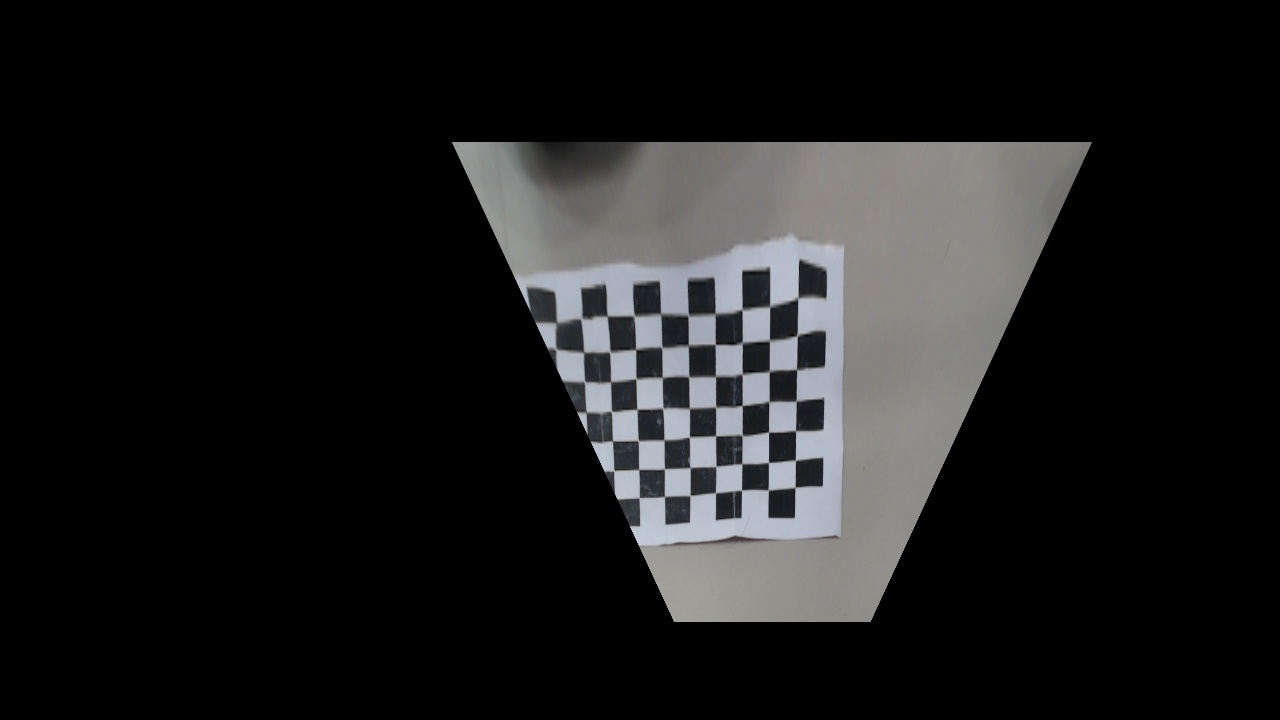
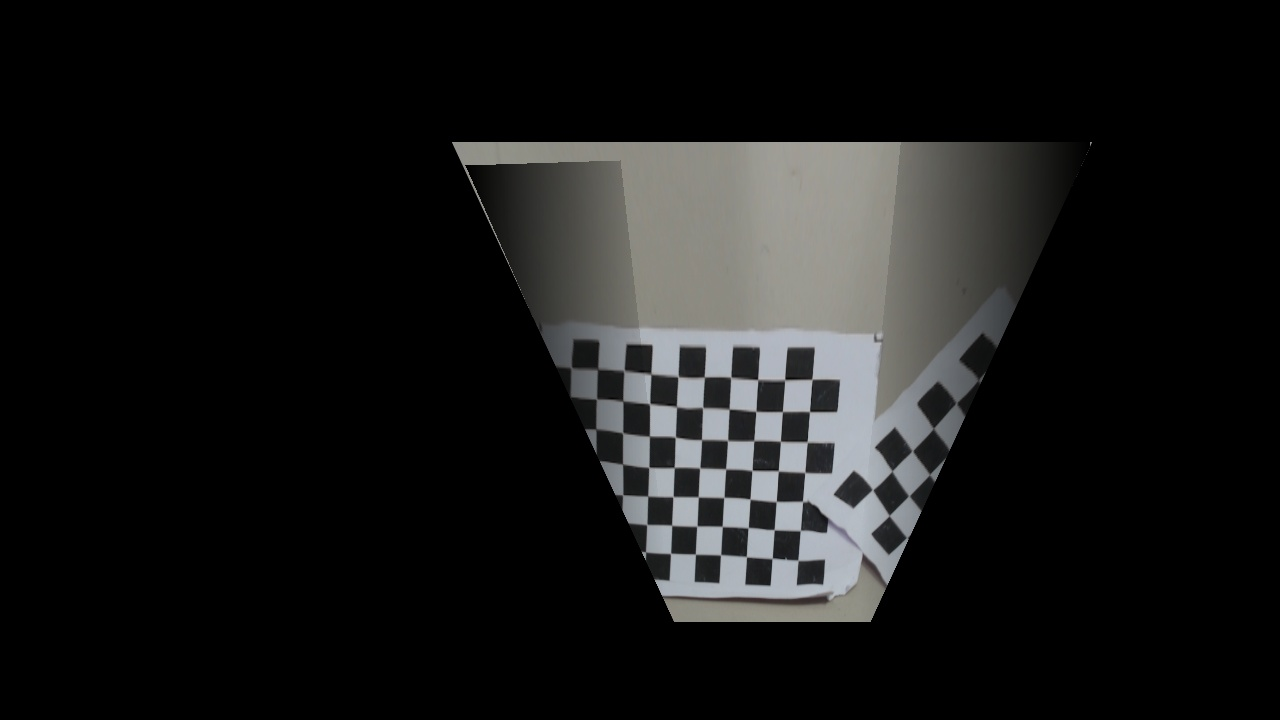
Final script updated with proper blending

Changed region(s): [[0.3438, 0.1833, 0.875, 0.8556]]

diff --git a/Deva/working/final_image_script.cpp b/Deva/working/final_image_script.cpp
@@ -9,10 +9,10 @@ using namespace std;
 
 
 Mat rotateImage(const Mat& src, double angle, double scale, Mat center_rotate) {
-	cout << "enter" << endl;
+	//cout << "enter" << endl;
 	int temp1 = center_rotate.at<int>(0);
 	int temp2 = center_rotate.at<int>(1);
-	cout << "center rotate 1 " << center_rotate.at<int>(0) << "2 " << center_rotate.at<int>(0) << endl;
+	//cout << "center rotate 1 " << center_rotate.at<int>(0) << "2 " << center_rotate.at<int>(0) << endl;
 	Point2f center(center_rotate.at<int>(0),center_rotate.at<int>(1));
 	Mat rotMat = getRotationMatrix2D(center, angle, scale);
 
@@ -22,7 +22,8 @@ Mat rotateImage(const Mat& src, double angle, double scale, Mat center_rotate) {
 }
 
 Mat blendImages(const Mat& img1, const Mat& img2, const Mat& img3, int off_x1, int off_y1, int off_x2, int off_y2,
-		int off_x3, int off_y3, int canvas_width, int canvas_height) {
+		int off_x3, int off_y3, int canvas_width, int canvas_height, Mat mask_left, Mat mask_center_0,
+		Mat mask_center_1, Mat mask_right) {
 
 	int w1 = img1.cols;
 	int h1 = img1.rows;
@@ -30,7 +31,7 @@ Mat blendImages(const Mat& img1, const Mat& img2, const Mat& img3, int off_x1, i
 	int h2 = img2.rows;
 	int w3 = img3.cols;
 	int h3 = img3.rows;
-	cout << "width " << w1 << " height "  << h1 << endl;
+	//cout << "width " << w1 << " height "  << h1 << endl;
 	// Calculate the canvas size to hold both images, considering the offsets
 	int c1 = canvas_width;  
 	int c2 = canvas_height;  
@@ -42,11 +43,19 @@ Mat blendImages(const Mat& img1, const Mat& img2, const Mat& img3, int off_x1, i
 	Mat canvas3(Size(c1, c2), img1.type(), Scalar(0, 0, 0));
 
 	Mat canvas4(Size(c1, c2), img1.type(), Scalar(0, 0, 0));
+	
+	Mat canvas1_float,canvas2_float,canvas3_float;
 
 	// Place img1 on the canvas at (off_x1, off_y1)
 	Mat roi1 = img1(Rect(0, 0, w1-off_x1, h1-off_y1));
 	Mat roi4 = canvas1(Rect(off_x1,off_y1, w1-off_x1, h1-off_y1));
 	roi1.copyTo(roi4);
+
+	
+	canvas1.convertTo(canvas1, CV_32F);
+	multiply(canvas1,mask_center_0,canvas1);
+	multiply(canvas1,mask_center_1,canvas1);
+	canvas1.convertTo(canvas1, CV_8U);
 
 	//imshow("one",roi1);
 	//imshow("final",canvas1);
@@ -56,10 +65,18 @@ Mat blendImages(const Mat& img1, const Mat& img2, const Mat& img3, int off_x1, i
 	Mat roi5 = canvas2(Rect(off_x2, off_y2, (w2-off_x2), (h2-off_y2)));
 	roi2.copyTo(roi5);
 
+	canvas2.convertTo(canvas2, CV_32F);
+	multiply(canvas2,mask_left,canvas2);
+	canvas2.convertTo(canvas2, CV_8U);	
+
 	Mat roi3 = img3(Rect(0, 0, (w3-off_x3), (h3-off_y3)));
 	Mat roi6 = canvas3(Rect(off_x3, off_y3, (w3-off_x3), (h3-off_y3)));
 	roi3.copyTo(roi6);
 	
+	canvas3.convertTo(canvas3, CV_32F);
+	multiply(canvas3,mask_right,canvas3);
+	canvas3.convertTo(canvas3, CV_8U);	
+
 	imwrite("f1.jpg",canvas1);
 	imwrite("f2.jpg",canvas2);
 	imwrite("f3.jpg",canvas3);
@@ -105,6 +122,39 @@ int main(int argc, char **argv) {
 	FileStorage transform_1("c1-mat.yml", FileStorage::READ);
 	FileStorage transform_2("c2-mat.yml", FileStorage::READ);
 	FileStorage transform_3("c3-mat.yml", FileStorage::READ);
+	
+	Mat mask_left_0 = imread("c1-view_blendmask_0.jpg");
+	Mat mask_center_0 = imread("c2-view_blendmask_0.jpg");
+	Mat mask_center_1 = imread("c2-view_blendmask_1.jpg");
+	Mat mask_right_0 = imread("c3-view_blendmask_0.jpg");
+	
+	if (mask_left_0.empty()) {
+		std::cerr << "error loading image! left" << std::endl;
+		return -1;
+	}
+
+	if (mask_center_0.empty()) {
+		std::cerr << "error loading image! center 0" << std::endl;
+		return -1;
+	}
+
+	if (mask_center_1.empty()) {
+		std::cerr << "error loading image! center 1" << std::endl;
+		return -1;
+	}
+
+	if (mask_right_0.empty()) {
+		std::cerr << "error loading image! right 0" << std::endl;
+		return -1;
+	}
+
+	// Divide all pixel values by 255 to normalize them to [0, 1]
+	Mat normalized_image_left, normalized_image_center_0, normalized_image_center_1, normalized_image_right;
+	
+	mask_left_0.convertTo(normalized_image_left, CV_32F, 1.0 / 255.0);
+	mask_center_0.convertTo(normalized_image_center_0, CV_32F, 1.0 / 255.0);
+	mask_center_1.convertTo(normalized_image_center_1, CV_32F, 1.0 / 255.0);
+	mask_right_0.convertTo(normalized_image_right, CV_32F, 1.0 / 255.0);
 
 	if (!transform_1.isOpened() || !transform_2.isOpened() || !transform_3.isOpened()){
 		cerr << "Error: Could not open the file for writing!" << endl;
@@ -246,7 +296,8 @@ int main(int argc, char **argv) {
 		//imshow("two", rotated2);
 		//imshow("three", rotated3);
 
-		output = blendImages(rotated1, rotated2, rotated3, x1, y1, x2, y2, x3, y3, canvas_width, canvas_height);
+		output = blendImages(rotated1, rotated2, rotated3, x1, y1, x2, y2, x3, y3, canvas_width, canvas_height,
+				normalized_image_left,normalized_image_center_0,normalized_image_center_1,normalized_image_right);
 
 		imshow("canvas.jpg", output);
 		//waitKey(1);
